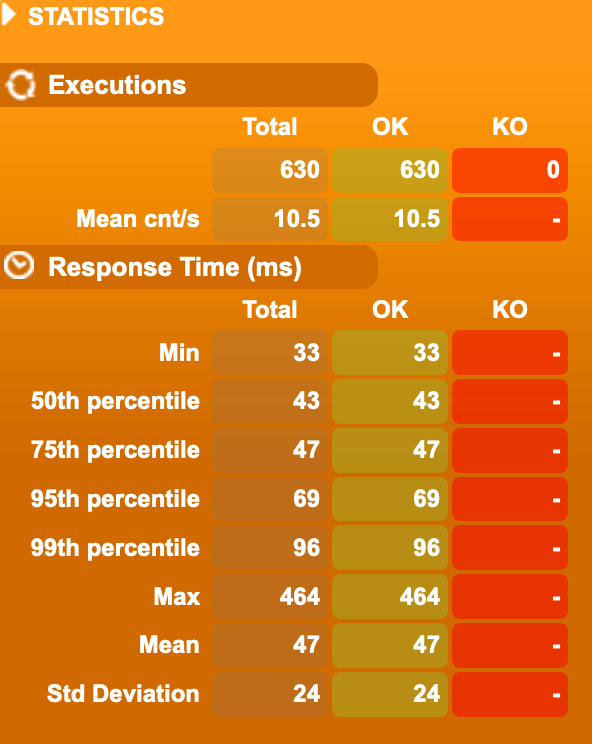
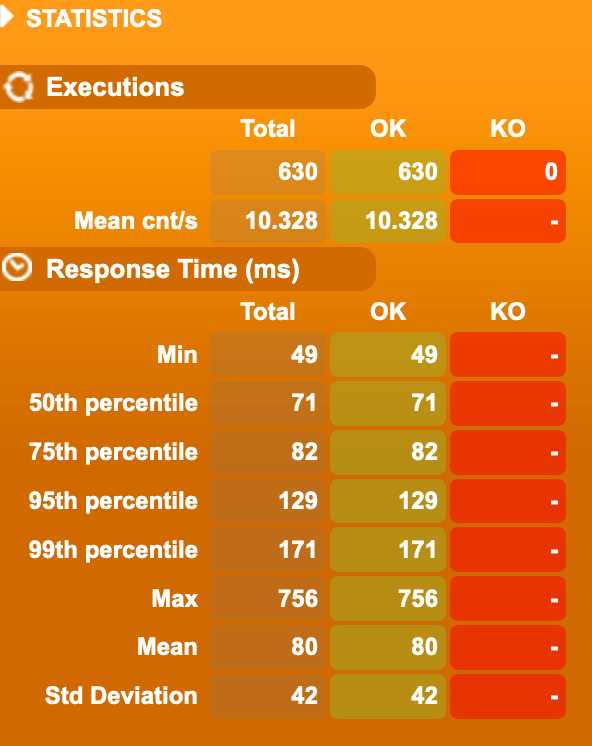
update the lab and website content

diff --git a/workshop/content/rearchitect/quarkus/_index.md b/workshop/content/rearchitect/quarkus/_index.md
@@ -4,6 +4,8 @@ weight = 31
 pre = ""
 +++
 
+In this section, we use the popular "Supersonic Subatomic Java" framework [Quarkus](https://quarkus.io/) to build our Pet service. Quarkus supports the build of native Java images by leveraging the GraalVM native compiler. This is what we have implemented for that section.   
+
 ## Analyze The Deployment Package
 
 To determine the package size of your function, run the following command in the bash window in your AWS Cloud9 IDE:
@@ -13,11 +15,11 @@ cd ~/environment/lambda-on-java-workshop/labs
 ls -lh lab-3-rearchitect/quarkus/target/function.zip
 ```
 
-It will report a package size of **15,0 MB**.
+It will report a package size of **17,0 MB**.
 
 ## Deploy The Application
 
-To deploy the application, run the following command. It also exports the service endpoint url and the function ARN as environment variables for easy access:
+To deploy the application, run the following command:
 
 ```bash
 sam deploy --template-file lab-3-rearchitect/quarkus/template.yaml \
@@ -42,33 +44,35 @@ export FUNCTION_ARN=$(aws cloudformation describe-stacks \
 
 ## Memory Configuration
 
-TODO
+We choose to go with 512 MB for the load and performance tests.
+
+{{< figure src="quarkus/power-tuning.png" >}}
 
 ## Run The Load Tests
 
 ```bash
 export JAVA_OPTS="-DBASE_URL=$ENDPOINT"
-for i in {1..10}; do aws lambda update-function-configuration --function-name $FUNCTION_ARN --environment "Variables={TABLE_NAME=$PETS_TABLE,BUCKET_NAME=$PETS_BUCKET,KeyName1=KeyValue$i}"; gatling.sh --simulations-folder lab-3-rearchitect/graalvm/src/test/scala --simulation LoadTest --run-description "graalvm-run-$i"; done
+for i in {1..10}; do aws lambda update-function-configuration --function-name $FUNCTION_ARN --environment "Variables={DISABLE_SIGNAL_HANDLERS=true,TABLE_NAME=$TABLE_NAME,BUCKET_NAME=$BUCKET_NAME,KeyName1=KeyValue$i}"; gatling.sh --simulations-folder lab-3-rearchitect/quarkus/src/test/scala --simulation LoadTest --run-description "quarkus-run-$i"; done
 ```
 
 ## Run the Cold-Start Tests
 
 ```bash
-for i in {1..10}; do aws lambda update-function-configuration --function-name $FUNCTION_ARN --environment "Variables={TABLE_NAME=$PETS_TABLE,BUCKET_NAME=$PETS_BUCKET,KeyName1=KeyValue$i}"; curl -i -X POST -d '{"name": "Max", "type": "dog", "birthday": "2010-11-03", "medicalRecord": "bla bla bla"}' $ENDPOINT/pet; done
+for i in {1..10}; do aws lambda update-function-configuration --function-name $FUNCTION_ARN --environment "Variables={DISABLE_SIGNAL_HANDLERS=true,TABLE_NAME=$TABLE_NAME,BUCKET_NAME=$BUCKET_NAME,KeyName1=KeyValue$i}"; curl -i -X POST -d '{"name": "Max", "type": "dog", "birthday": "2010-11-03", "medicalRecord": "bla bla bla"}' $ENDPOINT/pet; done
 ```
 
 ## Result Overview
 
 ### Gatling Load Test Result (best out of 10)
 
-{{< figure src="graalvm/gatling-1.png" height="400" >}}
-{{< figure src="graalvm/gatling-2.png" height="400" >}}
+{{< figure src="quarkus/gatling-1.png" height="400" >}}
+{{< figure src="quarkus/gatling-2.png" height="400" >}}
 
 ### Amazon X-Ray Cold-Start Trace (best out of 10)
 
-{{< figure src="graalvm/x-ray.png" >}}
+{{< figure src="quarkus/x-ray.png" >}}
 
 ## Source Code
 
-Yo can find the source code **[here](https://github.com/muellerc/lambda-on-java-workshop/tree/master/labs/lab-3-rearchitect/graalvm)**.
+Yo can find the source code **[here](https://github.com/muellerc/lambda-on-java-workshop/tree/master/labs/lab-3-rearchitect/quarkus)**.
 

diff --git a/workshop/content/rearchitect/graalvm/_index.md b/workshop/content/rearchitect/graalvm/_index.md
@@ -13,11 +13,11 @@ cd ~/environment/lambda-on-java-workshop/labs
 ls -lh lab-3-rearchitect/graalvm/target/function.zip
 ```
 
-It will report a package size of **9,3 MB**.
+It will report a package size of **14,0 MB**.
 
 ## Deploy The Application
 
-To deploy the application, run the following command. It also exports the service endpoint url and the function ARN as environment variables for easy access:
+To deploy the application, run the following command:
 
 ```bash
 sam deploy --template-file lab-3-rearchitect/graalvm/template.yaml \
@@ -42,19 +42,21 @@ export FUNCTION_ARN=$(aws cloudformation describe-stacks \
 
 ## Memory Configuration
 
-TODO
+We choose to go with 512 MB for the load and performance tests.
+
+{{< figure src="graalvm/power-tuning.png" >}}
 
 ## Run The Load Tests
 
 ```bash
 export JAVA_OPTS="-DBASE_URL=$ENDPOINT"
-for i in {1..10}; do aws lambda update-function-configuration --function-name $FUNCTION_ARN --environment "Variables={TABLE_NAME=$PETS_TABLE,BUCKET_NAME=$PETS_BUCKET,KeyName1=KeyValue$i}"; gatling.sh --simulations-folder lab-3-rearchitect/graalvm/src/test/scala --simulation LoadTest --run-description "graalvm-run-$i"; done
+for i in {1..10}; do aws lambda update-function-configuration --function-name $FUNCTION_ARN --environment "Variables={DISABLE_SIGNAL_HANDLERS=true,TABLE_NAME=$TABLE_NAME,BUCKET_NAME=$BUCKET_NAME,KeyName1=KeyValue$i}"; gatling.sh --simulations-folder lab-3-rearchitect/graalvm/src/test/scala --simulation LoadTest --run-description "graalvm-run-$i"; done
 ```
 
 ## Run the Cold-Start Tests
 
 ```bash
-for i in {1..10}; do aws lambda update-function-configuration --function-name $FUNCTION_ARN --environment "Variables={TABLE_NAME=$PETS_TABLE,BUCKET_NAME=$PETS_BUCKET,KeyName1=KeyValue$i}"; curl -i -X POST -d '{"name": "Max", "type": "dog", "birthday": "2010-11-03", "medicalRecord": "bla bla bla"}' $ENDPOINT/pet; done
+for i in {1..10}; do aws lambda update-function-configuration --function-name $FUNCTION_ARN --environment "Variables={DISABLE_SIGNAL_HANDLERS=true,TABLE_NAME=$TABLE_NAME,BUCKET_NAME=$BUCKET_NAME,KeyName1=KeyValue$i}"; curl -i -X POST -d '{"name": "Max", "type": "dog", "birthday": "2010-11-03", "medicalRecord": "bla bla bla"}' $ENDPOINT/pet; done
 ```
 
 ## Result Overview

diff --git a/workshop/content/rearchitect/summary/_index.md b/workshop/content/rearchitect/summary/_index.md
@@ -5,11 +5,13 @@ pre = ""
 +++
 
 
-| Measurement          | MIN in ms | P99 in ms | FASTEST COLD-START in ms |
-|----------------------|-----------|-----------|--------------------------|
-| Python in Lambda     | 46        | 156       | 581                      |
-| Springboot in Lambda | 41        | 11775     | 11500                    |
-|                      |           |           |                          |
-| Quarkus in Lambda    |           |           |                          |
-| Micronaut in Lambda  |           |           |                          |
-| GraalVM in Lambda    | 33        | 96        | 410                      |
+| Measurement          | MIN in ms | AVG in ms | P99 in ms | FASTEST COLD-START in ms | AVG execution cost per milliom invocations |
+|----------------------|-----------|-----------|-----------|--------------------------|---------------------------------------------
+| Lambda on Python     | 46        |           | 156       | 581                      |                                            |
+| Lambda on Springboot | 41        |           | 11775     | 11500                    |                                            |
+|                      |           |           |           |                          |                                            |
+| Lambda on Quarkus (512 MB)  | 52        | 81        | 154       | 726                      | $ 1.03                                     |
+| Lambda on Quarkus (3008 MB) | 46        | 67        | 125       | 638                      | $ 5.10                                     |
+| Lambda on Micronaut         |           |           |           |                          |                                            |
+| Lambda on GraalVM (512 MB)  | 49        | 80        | 171       | 691                      | $ 1.03                                     |
+| Lambda on GraalVM (3008 MB) | 48        | 68        | 123       | 578                      | $ 5.10                                     |
